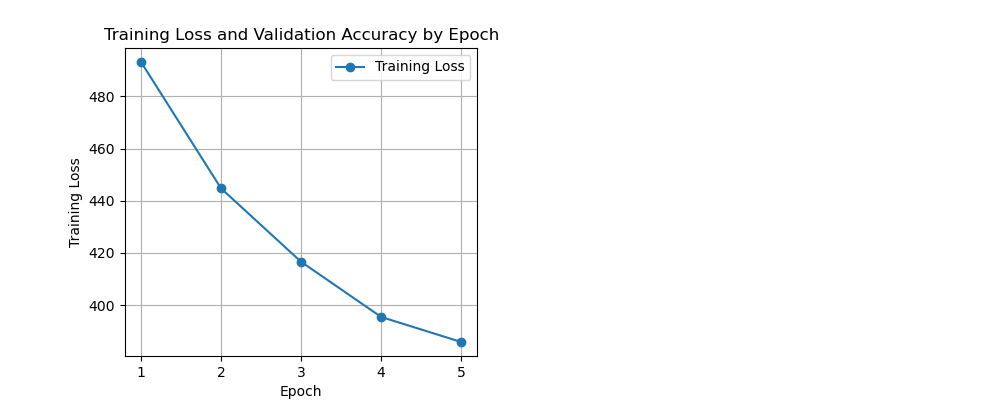
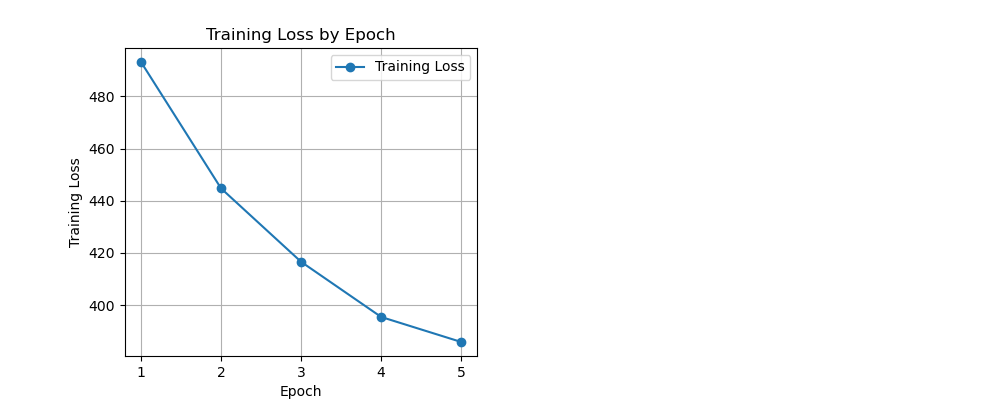
Modified title for plots

Changed region(s): [[0.093, 0.06, 0.496, 0.12]]

diff --git a/ffnn.py b/ffnn.py
@@ -253,7 +253,7 @@ plt.subplot(1, 2, 1)
 plt.plot(epochs, losses, label='Training Loss', marker='o')
 plt.xlabel('Epoch')
 plt.ylabel('Training Loss')
-plt.title('Training Loss and Validation Accuracy by Epoch')
+plt.title('Training Loss by Epoch')
 plt.grid(True)
 plt.legend()
 
